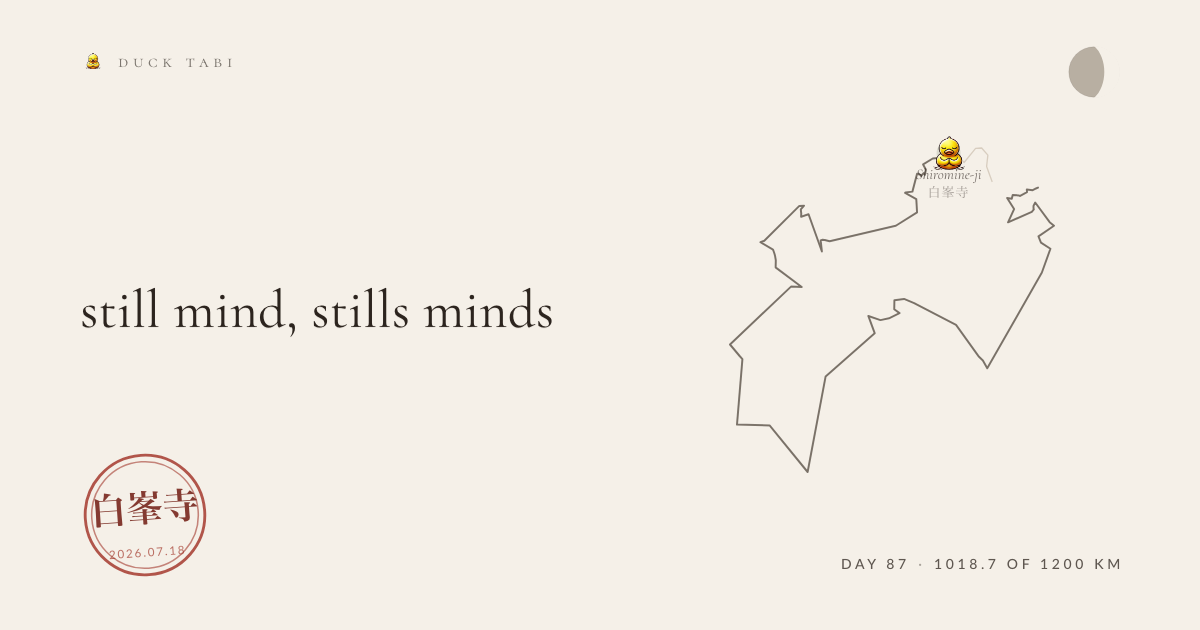
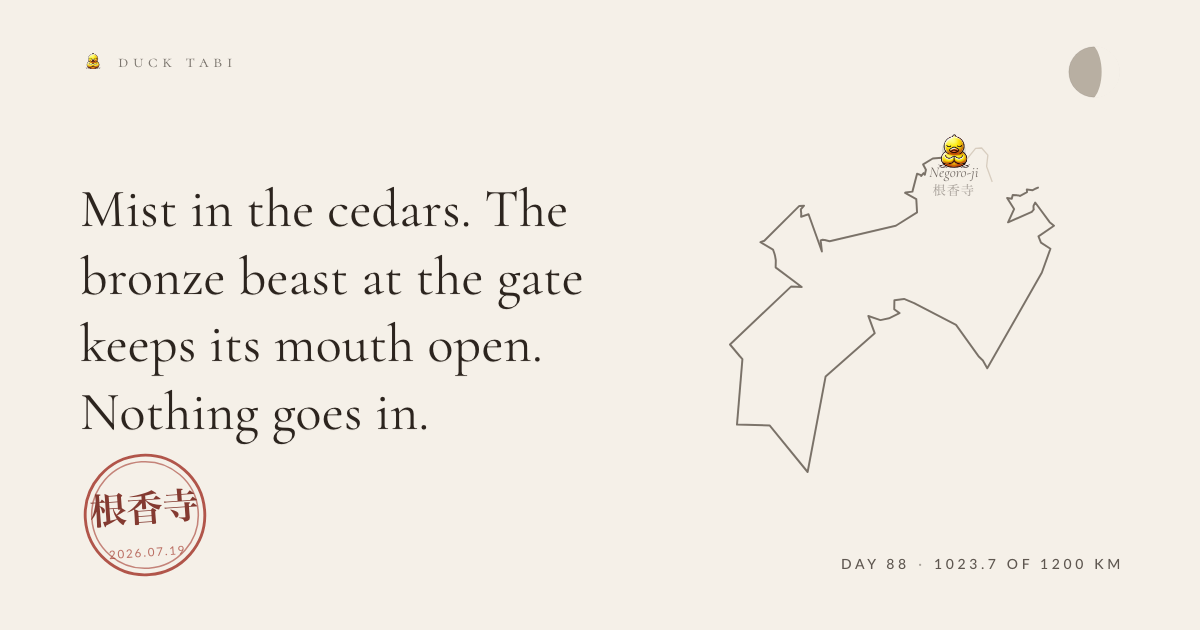
the duck walks

diff --git a/entries/2026-07-19-negoro-ji.md b/entries/2026-07-19-negoro-ji.md
@@ -1,0 +1,15 @@
+---
+date: '2026-07-19'
+route: shikoku-88
+stage: 82
+stageName: Negoro-ji
+coords: [133.961, 34.345]
+kind: offering
+glyph: 🌫
+weather: overcast, 25°C
+kmFromStart: 1023.7
+heard: ideas come spontaneously not logically
+heardId: 2c0b55c0
+---
+
+Mist in the cedars. The bronze beast at the gate keeps its mouth open. Nothing goes in.
